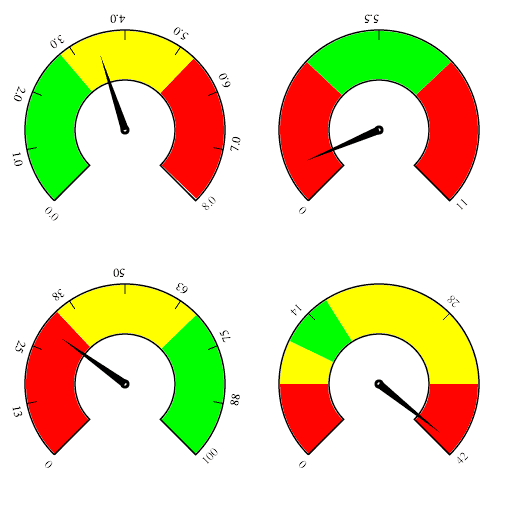
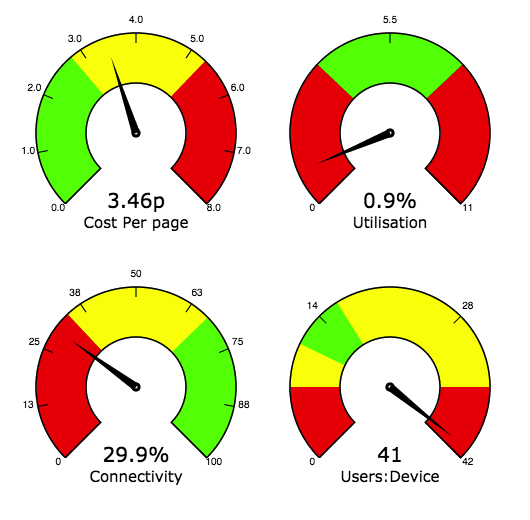
Update to Readme and Example.png to to show the latest version.

diff --git a/README.md b/README.md
@@ -2,34 +2,18 @@
 Drawing Gauges with Canvas
 
 <pre>
-	&lt;div class='guage' 
-		data-min='0' data-max='8'  data-set="0,2.8,5.3,8" 
-		data-set-color="#00ff00,#ffff00,#ff0000" 
-		data-labels='0.0,1.0,2.0,3.0,4.0,5.0,6.0,7.0,8.0' 
-		data-value='3.46' data-valuetype='pence' 
-		width='250px' height='250px'>&lt;/canvas>
-	&lt;div class='guage' data-min='0' data-max='11'  
-	data-set="0,3.6,7.4,11" 
-	data-set-color="#ff0000,#00ff00,#ff0000" 
-	data-labels='0,5.5,11' data-value='0.9' 
-	data-valuetype='percent' width='250px' 
-	height='250px'>&lt;/canvas>
-	&lt;div class='guage' data-min='0' data-max='100'  
-	data-set="0,34,67,100" data-set-color="#ff0000,#ffff00,#00ff00" 
-	data-labels='0,13,25,38,50,63,75,88,100' data-value='29.9' 
-	data-valuetype='percent' width='250px' height='250px'>&lt;/canvas>
-	&lt;div class='guage' data-min='0' data-max='42'  
-	data-set="0,7,11,16,35,42" 
-	data-set-color="#ff0000,#ffff00,#00ff00,#ffff00,#ff0000" 
-	data-labels='0,14,28,42' data-value='41' 
-	data-valuetype='percent' width='250px' height='250px'>&lt;/canvas>
+	&lt;div class='guage' data-min='0' data-max='8'  data-set="0,2.8,5.3,8" data-set-color="#00ff00,#ffff00,#ff0000" data-labels='0.0,1.0,2.0,3.0,4.0,5.0,6.0,7.0,8.0' data-value='3.46' data-valuetype='p' data-label="Cost Per page" width='250px' height='250px'>&lt;/div>
+	&lt;div class='guage' data-min='0' data-max='11'  data-set="0,3.6,7.4,11" data-set-color="#ff0000,#00ff00,#ff0000" data-labels='0,5.5,11' data-value='0.9' data-valuetype='%' data-label="Utilisation" width='250px' height='250px'>&lt;/div>
+	&lt;br>
+	&lt;div class='guage' data-min='0' data-max='100'  data-set="0,34,67,100" data-set-color="#ff0000,#ffff00,#00ff00" data-labels='0,13,25,38,50,63,75,88,100' data-value='29.9' data-valuetype='%' data-label="Connectivity" width='250px' height='250px'>&lt;/div>
+	&lt;div class='guage' data-min='0' data-max='42'  data-set="0,7,11,16,35,42" data-set-color="#ff0000,#ffff00,#00ff00,#ffff00,#ff0000" data-labels='0,14,28,42' data-value='41' data-valuetype='' data-label="Users:Device" width='250px' height='250px'>&lt;/div>
 	&lt;script src='guage.js' >&lt;/script>
 	&lt;script>
 		var els = document.getElementsByClassName('guage');
-		for (var index = 0 ; index &lt; els.length ; index ++){
-			Guage.register(els[index]);
+		for (var index=0;index&lt;els.length;index++){
+		 	Guage.register(els[index]);
 		}
 		Guage.Redraw();
 	&lt;/script>
-	<image src='example.png'/>
+	&lt;image src='example.png'/>
 </pre>
